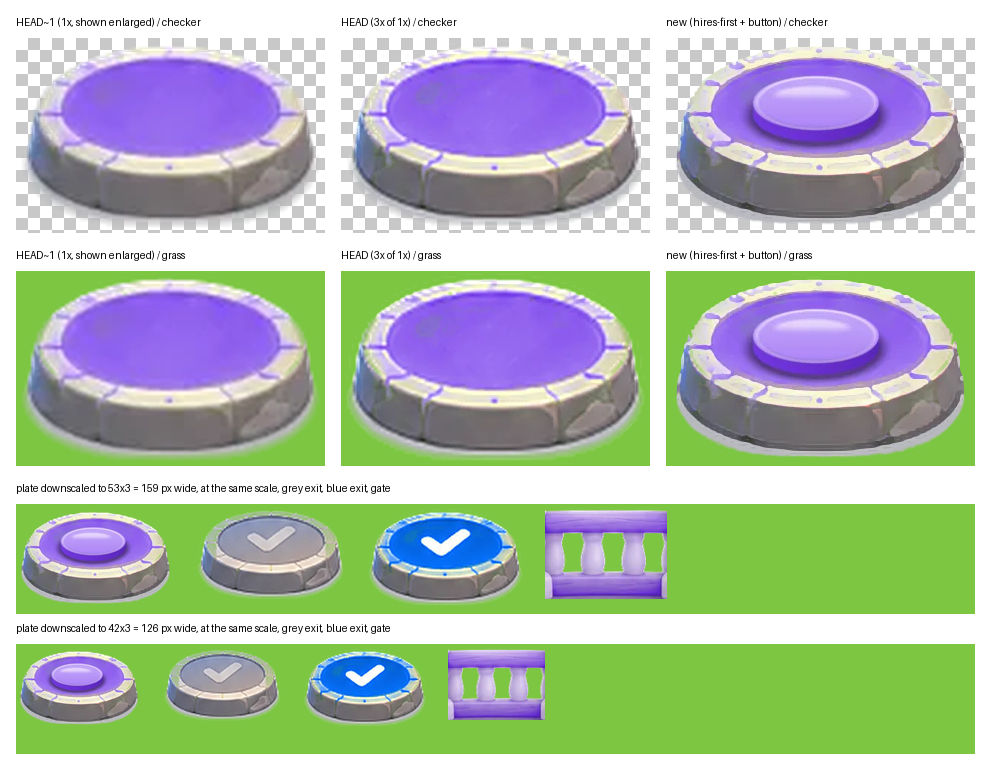
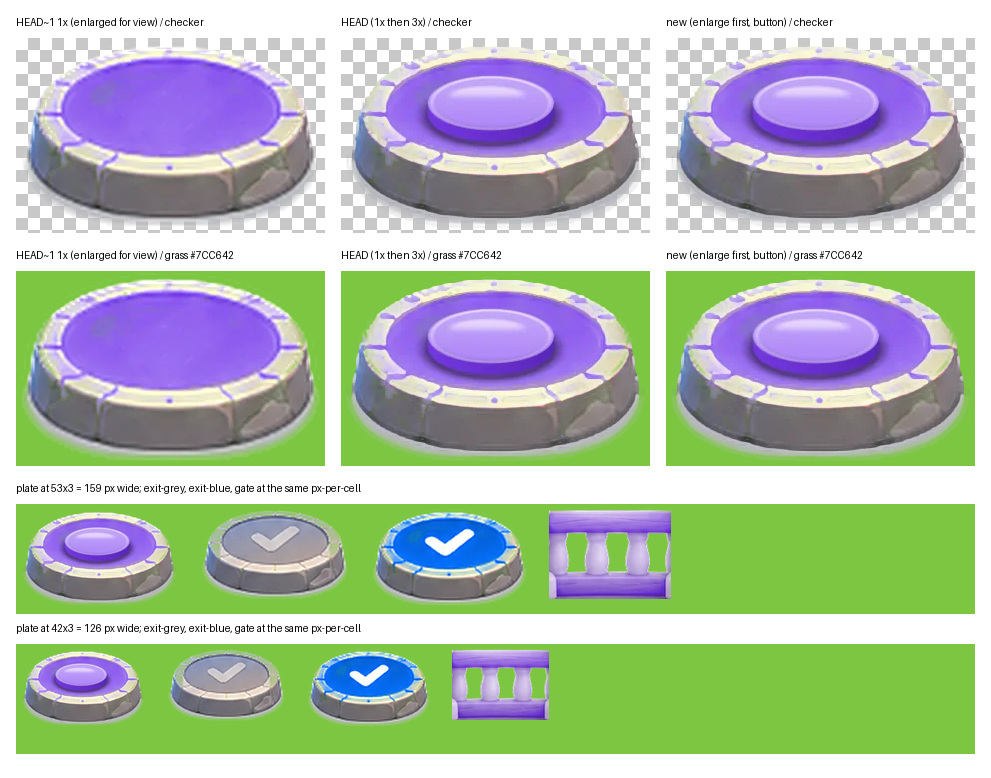
chore: checkpoint of the per-part hi-res work in progress
Work in progress from the part sessions; not final.

Design: design/themes/garden-exit.md

Claude-Session: https://claude.ai/code/session_01PBSmYqBfYXyG8SyW6SfNEM

diff --git a/tools/asset-pipeline/garden_exit/gate.py b/tools/asset-pipeline/garden_exit/gate.py
@@ -1,17 +1,93 @@
-"""Gate: a stretch of the back balustrade of 08-gazebo, retoned lavender (shared with the plate).
-It stands 0.84 cells wide with its foot on the cell's centre line."""
+"""Gate: the back balustrade of 08-gazebo between its two stone posts, retoned lavender (shared with
+the plate), so it reads as a closed barrier: post, rail with balusters, post.
+
+Source (08-gazebo.png, 1254 px): the stretch between the two back columns, rows 801-912, from the
+top of each column's wide band down to the foot of its plinth. The two columns' outer sides are
+hidden by vine leaves and the side rails, so each post is its own clean inner half mirrored about
+the column's centre line; its outer outline is that inner outline, mirrored (band and plinth widths
+measured in the picture). One middle baluster is taken out (cut mid-gap to mid-gap, the wood
+cross-faded over a few pixels) so the gate is not too long and low for a cell. The sky in the gaps
+is keyed out and un-mixed; the floor below the rail is cut along the rail's own lower edge.
+The whole is retoned lavender keeping the painted lightness, then enlarged to OUT_WIDTH px.
+It stands 0.84 cells wide; its anchor is the middle of the posts' foot.
+"""
 from __future__ import annotations
 
 import numpy as np
 
-from lib import LAVENDER, cut_out, load, retone, write_part
+from lib import LAVENDER, cut_out, load, retone, upscale, write_part
 
 WIDTH_CELLS = 0.84
+OUT_WIDTH = 300
+
+# Measured in 08-gazebo.png (source px; edges are where the colour changes, half-pixel accurate).
+TOP, BOTTOM = 801, 913          # rows taken: top of the columns' bands .. just below the plinths
+PLINTH_TOP = 879.5              # band above, plinth below
+PLINTH_FOOT = 912.6             # bottom of the plinths
+RAIL_FOOT = 907.3               # bottom of the lower rail (floor below)
+CENTRES = (526, 732)            # column centre lines (left, right)
+BAND_HALF, PLINTH_HALF = 26.5, 35.5
+CORNER = 3.5                    # rounding of the plinth's corners and the band's top corners
+CUT = (636, 686)                # removed: mid-gap .. mid-gap, the second full baluster
+BLEND = 4                       # cross-fade of the rails across the cut (px)
+SKY = np.array([252.0, 247.0, 245.0])
+
+
+def _rounded_box(xs: np.ndarray, ys: np.ndarray, x0: float, x1: float, y0: float, y1: float, r: float) -> np.ndarray:
+    """Inside test of a box with rounded corners."""
+    cx = np.clip(xs, x0 + r, x1 - r)
+    cy = np.clip(ys, y0 + r, y1 - r)
+    return (xs >= x0) & (xs <= x1) & (ys >= y0) & (ys <= y1) & ((xs - cx) ** 2 + (ys - cy) ** 2 <= r * r)
+
+
+def _post_mask(h: int, w: int, centre: float, ss: int = 4) -> np.ndarray:
+    """Coverage 0..1 of one post (band over plinth) on an h x w grid whose row 0 is source row TOP;
+    `centre` is the post's centre line in grid x. Supersampled ss x ss."""
+    ys, xs = np.mgrid[0:h * ss, 0:w * ss].astype(float)
+    ys = (ys + 0.5) / ss - 0.5 + TOP
+    xs = (xs + 0.5) / ss - 0.5
+    band = _rounded_box(xs, ys, centre - BAND_HALF, centre + BAND_HALF, TOP - 0.5, PLINTH_TOP + CORNER, 1.5)
+    plinth = _rounded_box(xs, ys, centre - PLINTH_HALF, centre + PLINTH_HALF, PLINTH_TOP, PLINTH_FOOT, CORNER)
+    inside = (band | plinth).astype(float)
+    return inside.reshape(h, ss, w, ss).mean(axis=(1, 3))
+
+
+def _strip() -> tuple[np.ndarray, float, float]:
+    """RGB strip post-rail-post (one baluster removed) and the two post centres in strip x."""
+    whole = load("08-gazebo")[TOP:BOTTOM]
+    left, right = CENTRES
+    lh, rh = int(np.ceil(PLINTH_HALF)) + 1, int(np.ceil(PLINTH_HALF)) + 1
+    # Each post: its clean inner half, mirrored outward about the centre line.
+    outer_l = whole[:, left + 1:left + lh][:, ::-1]
+    outer_r = whole[:, right - rh + 1:right][:, ::-1]
+    a, b = CUT
+    first = whole[:, left:a + BLEND]
+    second = whole[:, b - BLEND:right + 1]
+    # Cross-fade the overlap so the wood of both rails runs on without a step.
+    t = np.linspace(0, 1, 2 * BLEND)[None, :, None]
+    joint = first[:, -2 * BLEND:] * (1 - t) + second[:, :2 * BLEND] * t
+    rgb = np.concatenate([outer_l, first[:, :-2 * BLEND], joint, second[:, 2 * BLEND:], outer_r], axis=1)
+    cl = float(outer_l.shape[1])
+    cr = float(rgb.shape[1] - outer_r.shape[1] - 1)
+    return rgb, cl, cr
 
 
 def run() -> None:
-    whole = load("08-gazebo")
-    rail = cut_out(whole[800:912, 553:703], enclosed=True, bg=np.median(whole[0], axis=0))
-    rail = retone(rail, np.clip((rail[..., 3] / 255) * 0.95, 0, 1), LAVENDER, keep_light=1.0)
-    h, w = rail.shape[:2]
-    write_part("gate", {"gate": (rail, (w / 2, h * 0.97), WIDTH_CELLS / w)})
+    rgb, cl, cr = _strip()
+    h, w = rgb.shape[:2]
+    # Sky in the gaps and above the rail: keyed and un-mixed from the sky colour.
+    rgba = cut_out(rgb, enclosed=True, bg=SKY)
+    # Outline: two posts; between them the rail down to its lower edge (the floor goes).
+    posts = np.maximum(_post_mask(h, w, cl), _post_mask(h, w, cr))
+    rows = np.arange(h)[:, None] + TOP
+    rail = np.clip(RAIL_FOOT - rows + 0.5, 0, 1) * ((np.arange(w)[None, :] > cl) & (np.arange(w)[None, :] < cr))
+    shape = np.maximum(posts, rail)
+    rgba[..., 3] = np.minimum(rgba[..., 3], shape * 255)
+    rgba = retone(rgba, np.clip(rgba[..., 3] / 255, 0, 1) * 0.95, LAVENDER, keep_light=1.0)
+    # Enlarge to the target width (crisp edges: premultiplied Lanczos + mild unsharp).
+    factor = OUT_WIDTH / w
+    big = upscale(rgba, factor, sharpen=0.6, radius=1.6)
+    big[..., 3] = np.where(big[..., 3] < 4, 0, big[..., 3])
+    bh, bw = big.shape[:2]
+    foot = (PLINTH_FOOT - TOP + 0.5) * factor
+    write_part("gate", {"gate": (big, (bw / 2, foot), WIDTH_CELLS / bw)})
